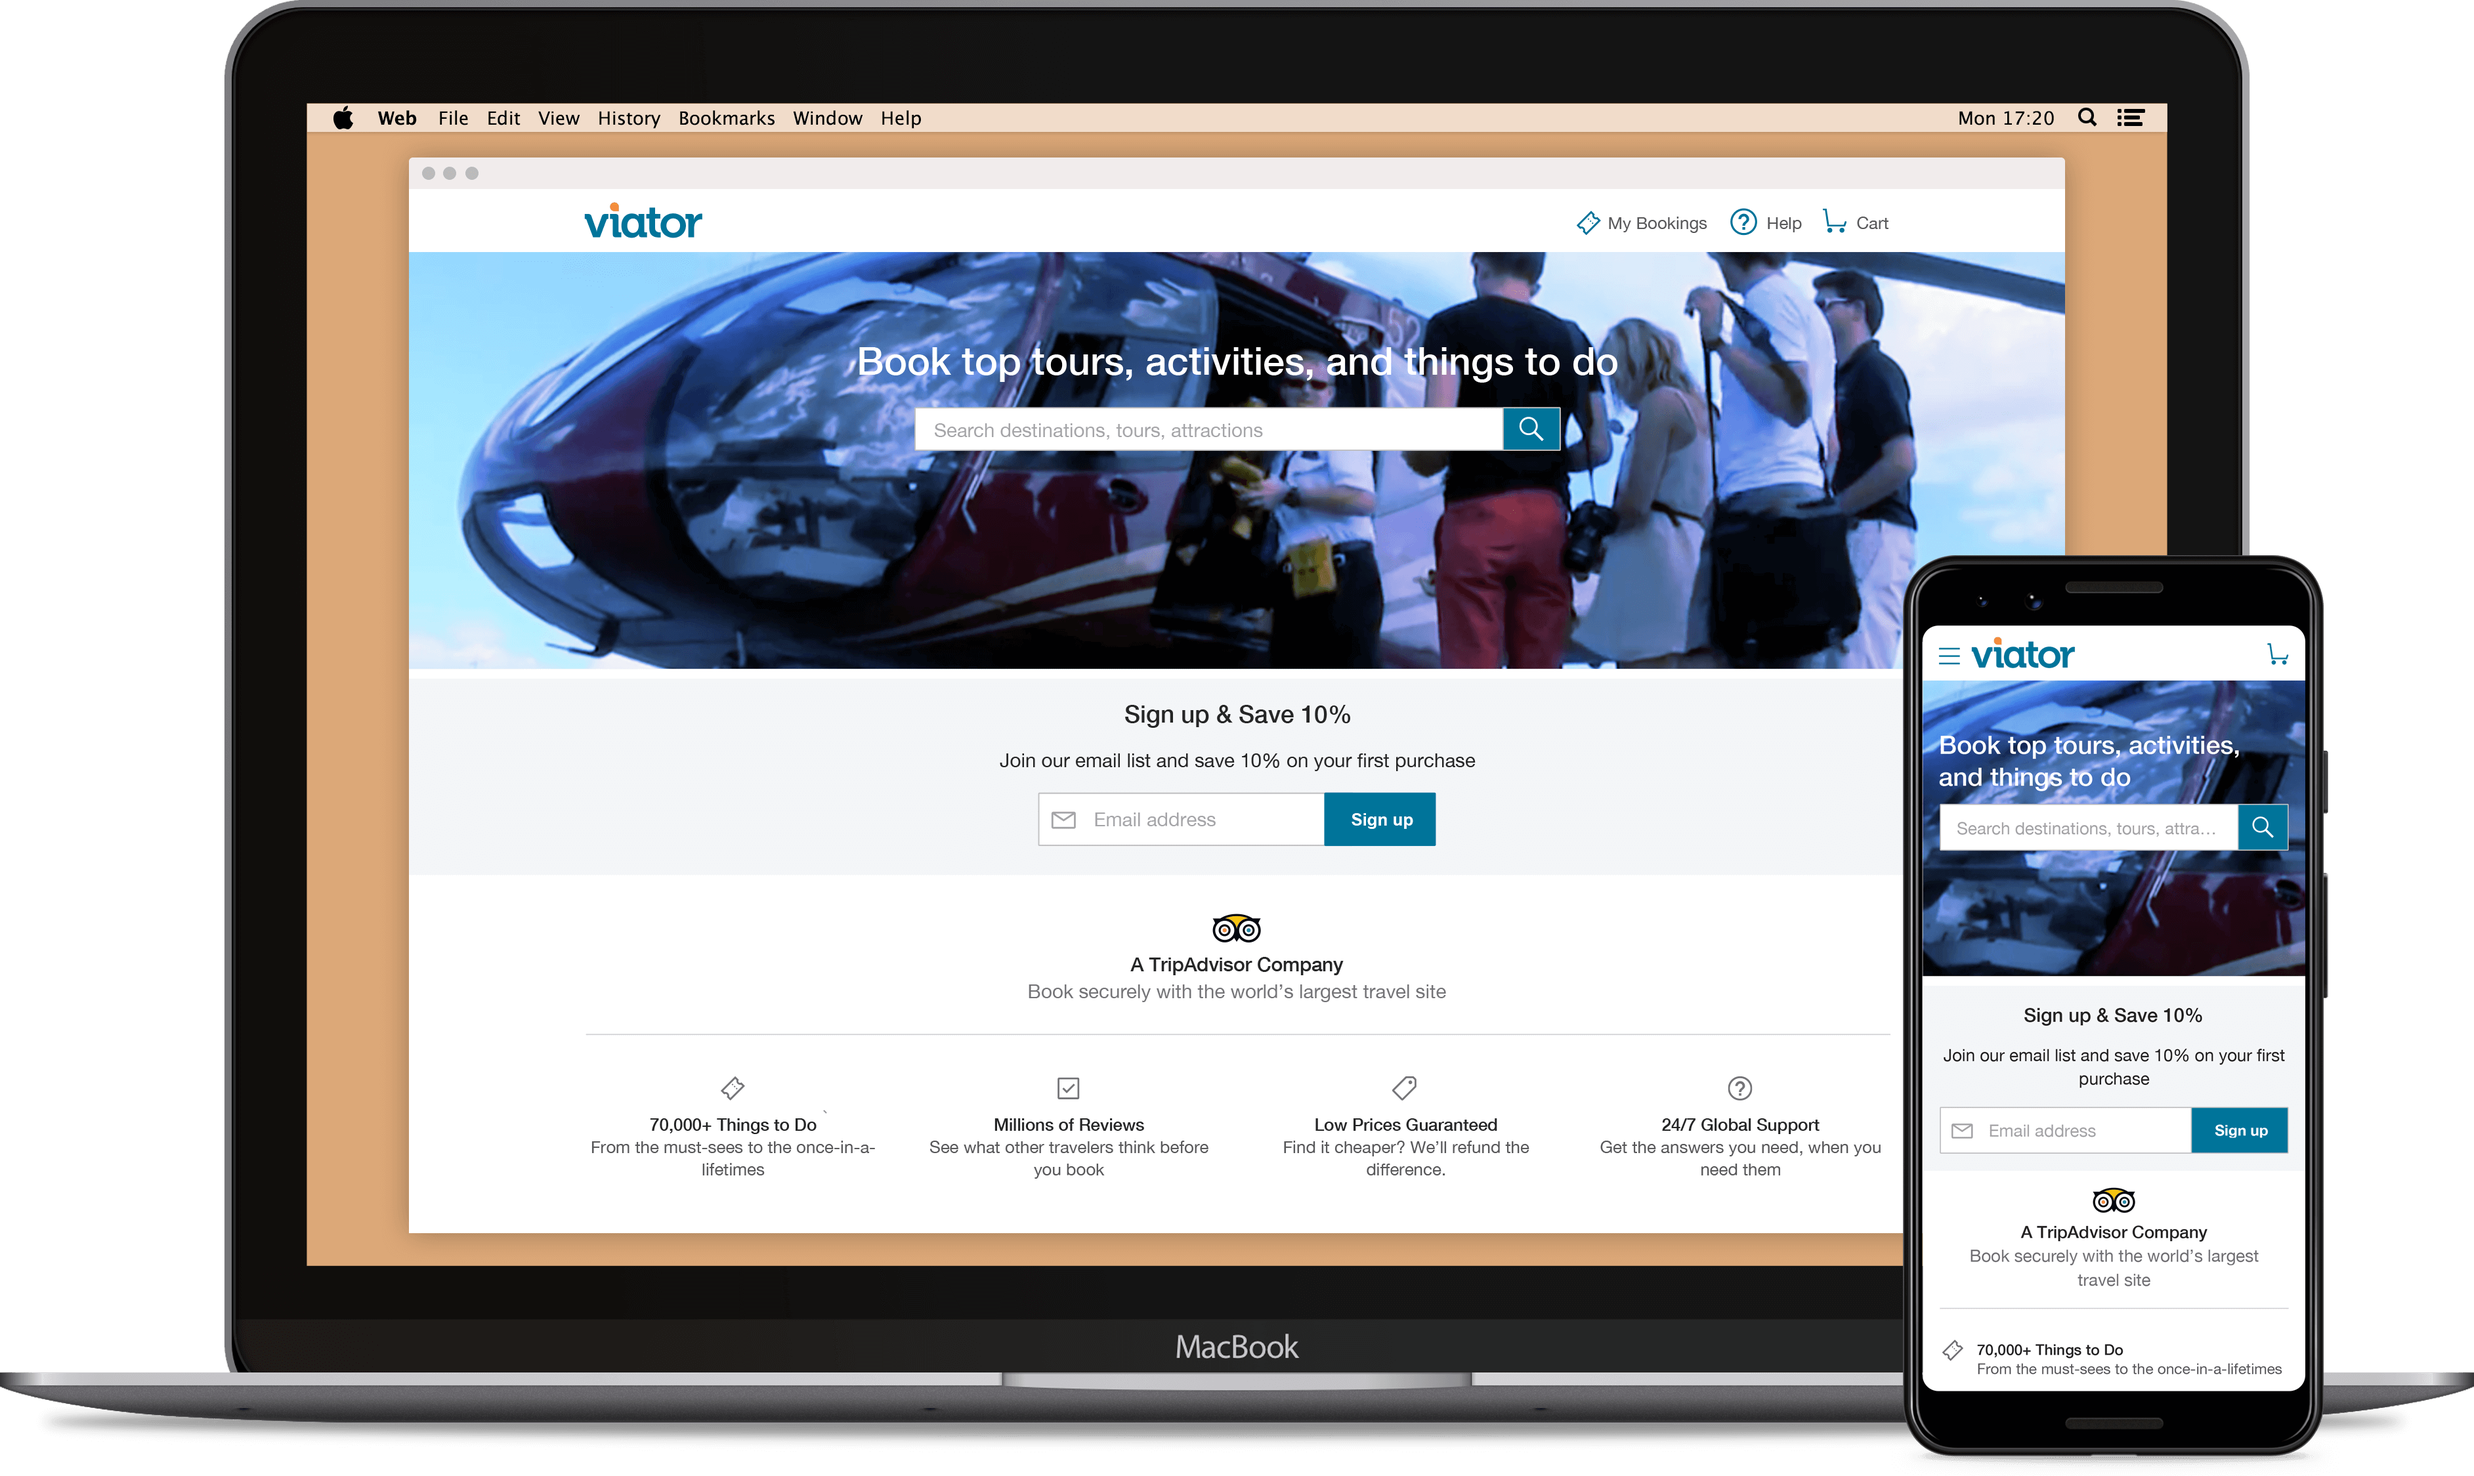
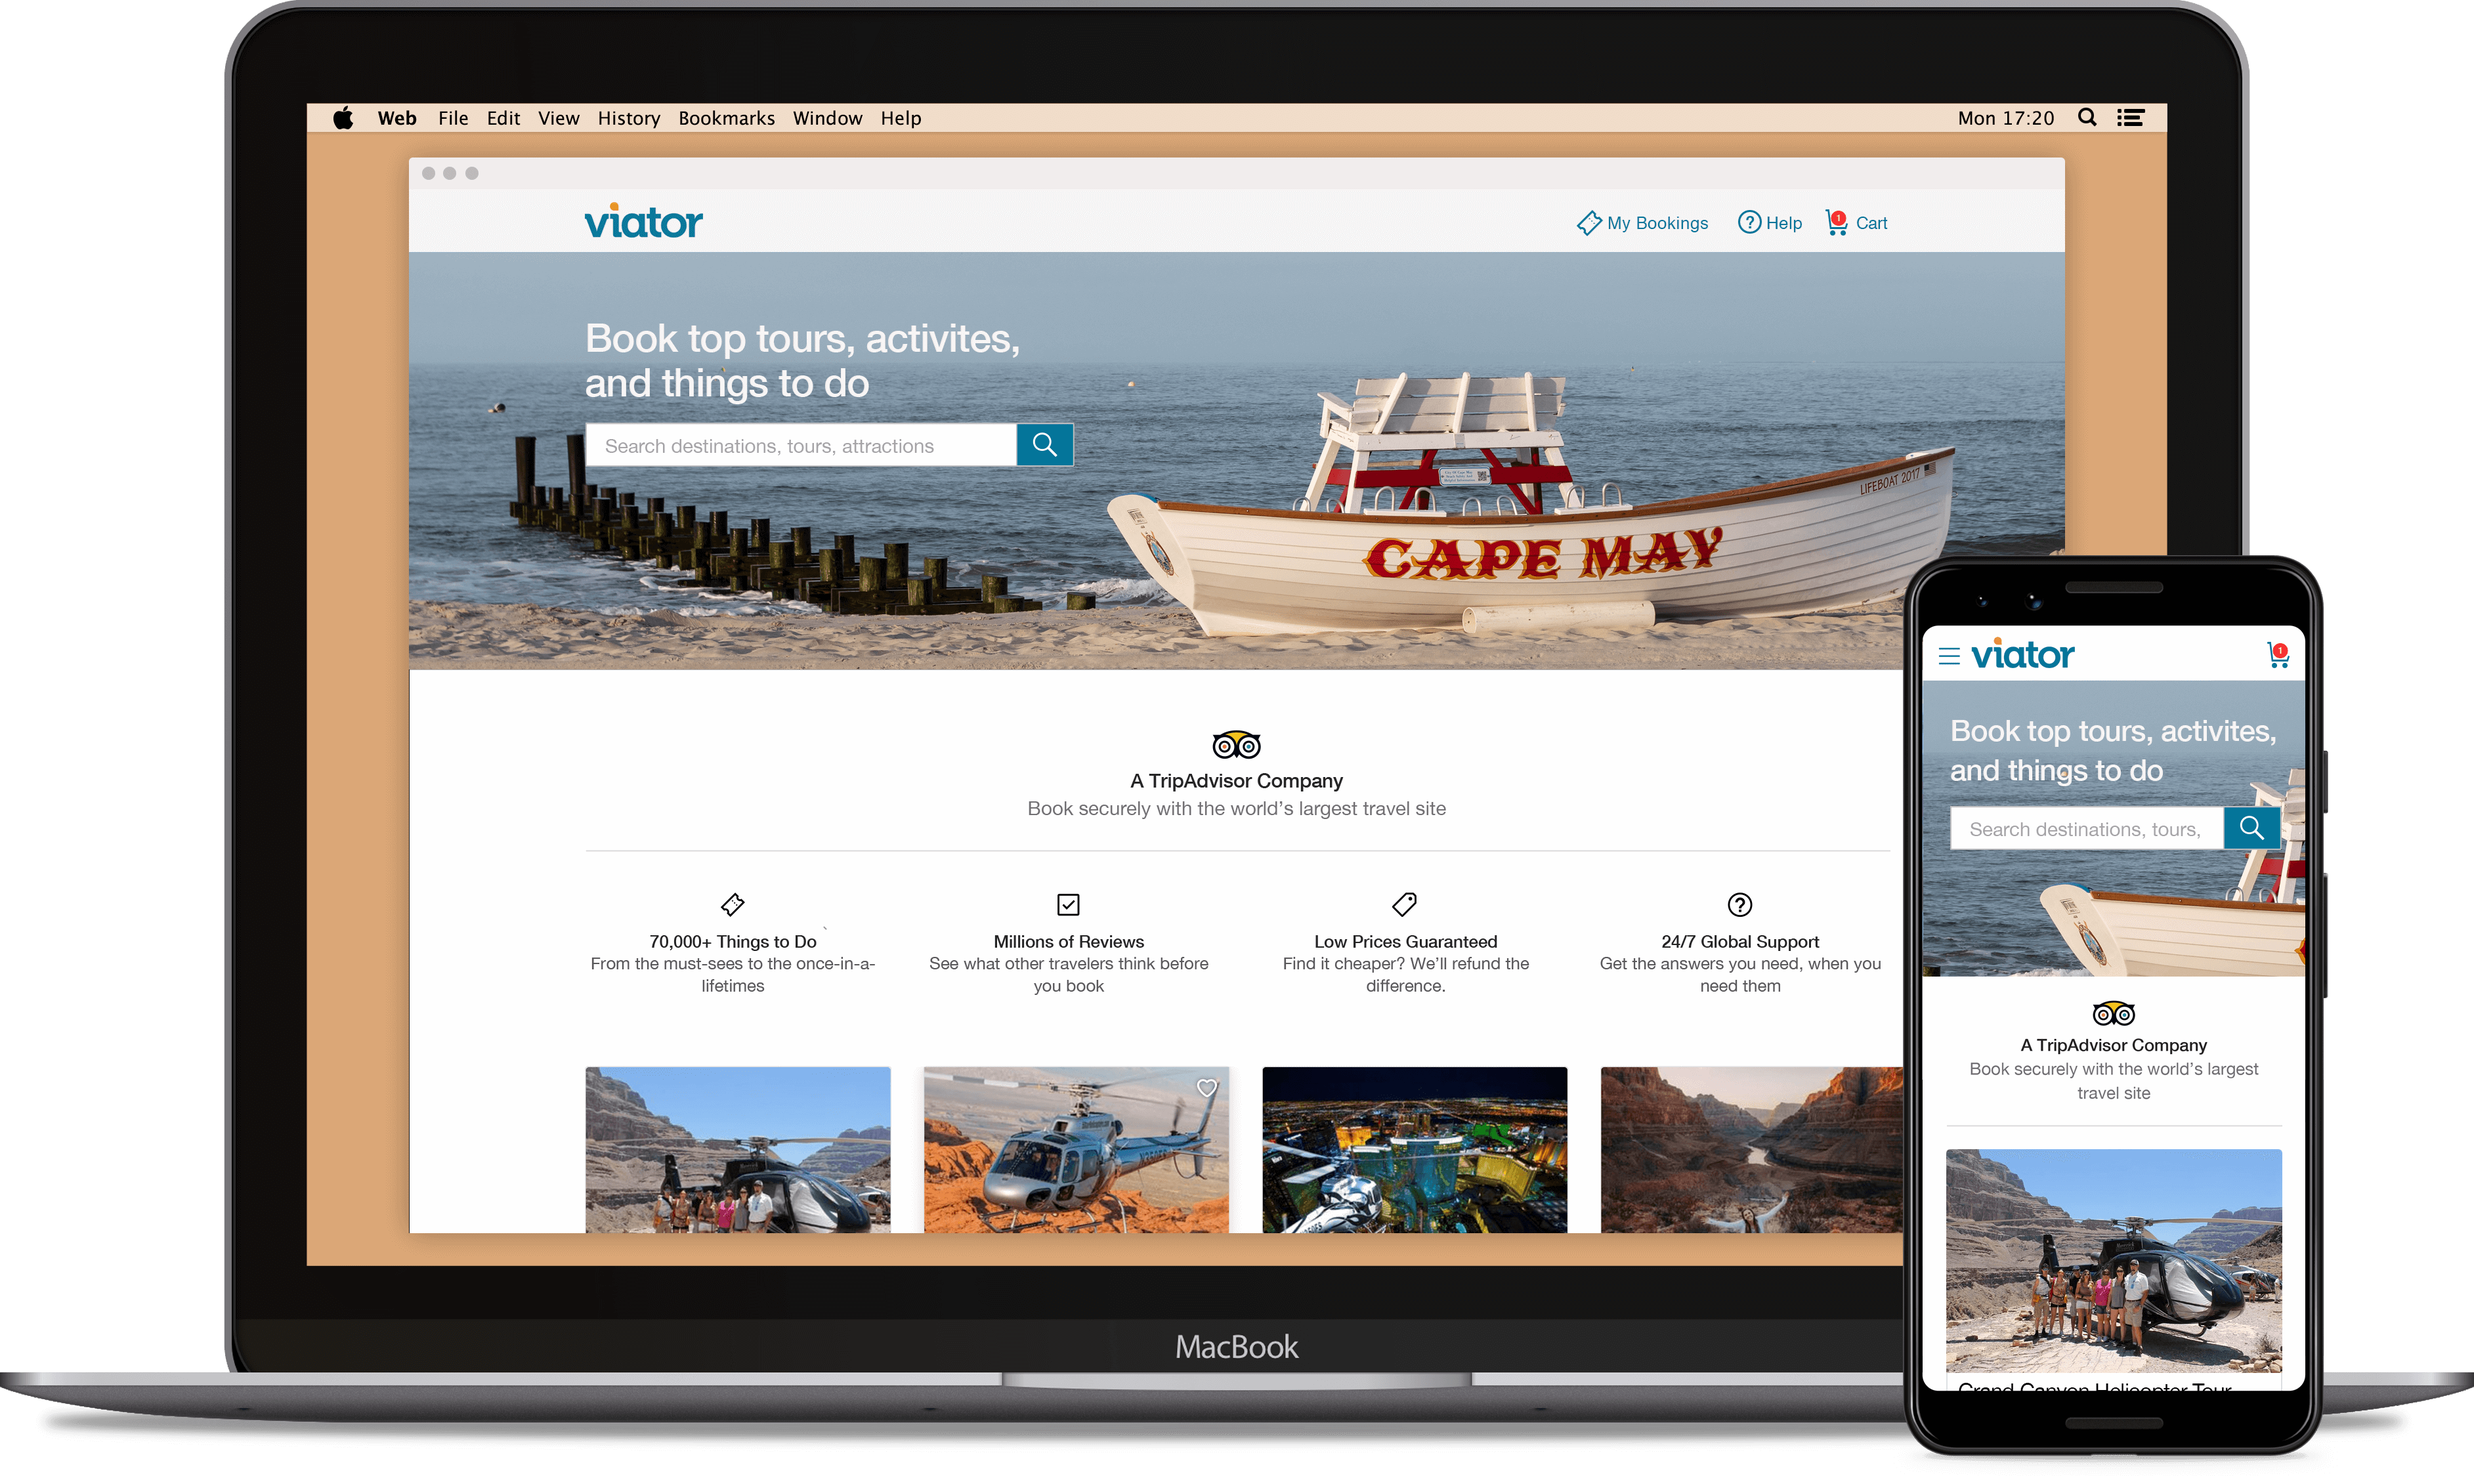
update of trip hero and fix of the hired tile highlight.

diff --git a/hired.html b/hired.html
@@ -5,7 +5,7 @@
     <meta http-equiv="X-UA-Compatible" content="IE=edge">
     <meta name="viewport" content="width=device-width, initial-scale=1, shrink-to-fit=no">
     <title>Matthew @ blueorange</title>
-	
+
     <!-- Bootstrap -->
     <link href="css/bootstrap.min.css" rel="stylesheet">
     <link href="css/base.css" rel="stylesheet">
@@ -15,7 +15,7 @@
     <!--[if lt IE 9]>
       <script src="https://oss.maxcdn.com/libs/html5shiv/3.7.0/html5shiv.js"></script>
       <script src="https://oss.maxcdn.com/libs/respond.js/1.4.2/respond.min.js"></script>
-    <![endif]-->   
+    <![endif]-->
   </head>
 
 <body>
@@ -35,7 +35,7 @@
 <div class="container-fluid bg-hired">
 	<div class="row">
 		<div class="col-xs-12 col-sm-12 col-md-12 col-lg-12">
-			
+
 			<div class="container">
 				<div class="row">
 					<div class="col-xs-12">
@@ -43,7 +43,7 @@
 					</div>
 				</div>
 			</div>
-					
+
 			<div class="container">
 				<div class="row">
 					<div class="col-sm-1 col-md-2 col-lg-3"></div>
@@ -58,29 +58,29 @@
 		</div>
 	</div>
 </div>
-			
+
 <div class="clearfix" style="margin-bottom:0px;"></div>
 
 
 <div style="background-color: rgba(26,26,22,1); padding-top:30px;">
 	<div class="row">
-		<div class="col-xs-12 col-sm-12 col-md-12 col-lg-12">			
-			<div class="container">				
+		<div class="col-xs-12 col-sm-12 col-md-12 col-lg-12">
+			<div class="container">
 				<div class="row" style="margin-top:30px; margin-bottom:35px;">
 					<div class="col-xs-12 col-sm-12 col-md-12 col-lg-12"><img src="img/work-hired-a.png" alt="..." class="img-fluid hero-space-small"></div>
 				</div>
-				
+
 				<div class="row" style="margin-top:30px; margin-bottom:35px;">
 					<div class="col-xs-12 col-sm-12 col-md-6"><img src="img/work-hired-b.png" alt="..." class="img-fluid hero-space-small"></div>
 					<div class="col-xs-12 col-sm-12 col-md-6"><img src="img/work-hired-c.png" alt="..." class="img-fluid hero-space-small"></div>
 				</div>
-				
+
 				<div class="row" style="margin-top:30px; margin-bottom:35px;">
 					<div class="col-xs-12 col-sm-12 col-md-4"><img src="img/work-hired-brand-e.png" alt="..." class="img-fluid hero-space-small border"></div>
 					<div class="col-xs-12 col-sm-12 col-md-4"><img src="img/work-hired-brand-f.png" alt="..." class="img-fluid hero-space-small border"></div>
 					<div class="col-xs-12 col-sm-12 col-md-4"><img src="img/work-hired-brand-g.png" alt="..." class="img-fluid hero-space-small border"></div>
 				</div>
-				
+
 				<div class="row spacerb" style="margin-top:30px;">
 					<div class="col-xs-12 col-sm-6 col-md-6 col-lg-6"><img src="img/work-hired-brand-d.png" alt="..." class="img-fluid hero-space-small"></div>
 					<div class="col-xs-12 col-sm-6 col-md-6 col-lg-6"><img src="img/work-hired-brand-b.png" alt="..." class="img-fluid hero-space-small"></div>
@@ -94,7 +94,7 @@
 </div>
 
 <div class="clearfix" style="margin-bottom:50px;"></div>
-			
+
 <div>
 	<div>
 		<div>
@@ -102,20 +102,20 @@
 				<div class="row">
 					<div class="col-xs-12 col-sm-12 col-md-12 col-lg-12">
 						<div class="row" style="margin:-5px">
-							<div class="col-xs-6 col-sm-6 col-md-6 col-lg-4 nopadding"><a href="hired.html"><figure><img src="img/tile-code.png" alt="..." class="img-fluid grow"><figcaption class="caption">Hired</figcaption></figure></a></div>
-							<div class="col-xs-6 col-sm-6 col-md-6 col-lg-4 nopadding"><a href="tripadvisor.html"><figure class="on"><img src="img/tile-tripadvisor.png" alt="..." class="img-fluid grow"><figcaption class="caption">TripAdvisor</figcaption></figure></a></div>
+							<div class="col-xs-6 col-sm-6 col-md-6 col-lg-4 nopadding"><a href="hired.html"><figure class="on"><img src="img/tile-code.png" alt="..." class="img-fluid grow"><figcaption class="caption">Hired</figcaption></figure></a></div>
+							<div class="col-xs-6 col-sm-6 col-md-6 col-lg-4 nopadding"><a href="tripadvisor.html"><figure><img src="img/tile-tripadvisor.png" alt="..." class="img-fluid grow"><figcaption class="caption">TripAdvisor</figcaption></figure></a></div>
 							<div class="col-xs-6 col-sm-6 col-md-6 col-lg-4 nopadding"><a href="udemy.html"><figure><img src="img/tile-udemy.png" alt="..." class="img-fluid grow"><figcaption class="caption">Udemy</figcaption></figure></a></div>
 							<div class="col-xs-6 col-sm-6 col-md-6 col-lg-4 nopadding"><a href="yahoo-communications.html"><figure><img src="img/tile-communications.png" alt="..." class="img-fluid grow"><figcaption class="caption">Yahoo Communications</figcaption></figure></a></div>
 							<div class="col-xs-6 col-sm-6 col-md-6 col-lg-4 nopadding"><a href="yahoo-autos.html"><figure><img src="img/tile-autos.png" alt="..." class="img-fluid grow"><figcaption class="caption">Yahoo Autos</figcaption></figure></a></div>
 							<div class="col-xs-6 col-sm-6 col-md-6 col-lg-4 nopadding"><a href="marketing.html"><figure><img src="img/tile-beer.png" alt="..." class="img-fluid grow"><figcaption class="caption">Marketing Experiences</figcaption></figure></a></div>
 						</div>
 					</div>
-				</div>		
+				</div>
 			</div>
 		</div>
 	</div>
 </div>
-	
+
 <div class="clearfix" style="padding-bottom:10px;"></div>
 
 <footer class="footer">
@@ -141,7 +141,7 @@
   ga('create', 'UA-5024058-5', 'blueorange.com');
   ga('send', 'pageview');
 	</script>
-	
+
     <!-- jQuery (necessary for Bootstrap's JavaScript plugins) -->
     <script src="https://ajax.googleapis.com/ajax/libs/jquery/1.11.0/jquery.min.js"></script>
     <!-- Include all compiled plugins (below), or include individual files as needed -->
